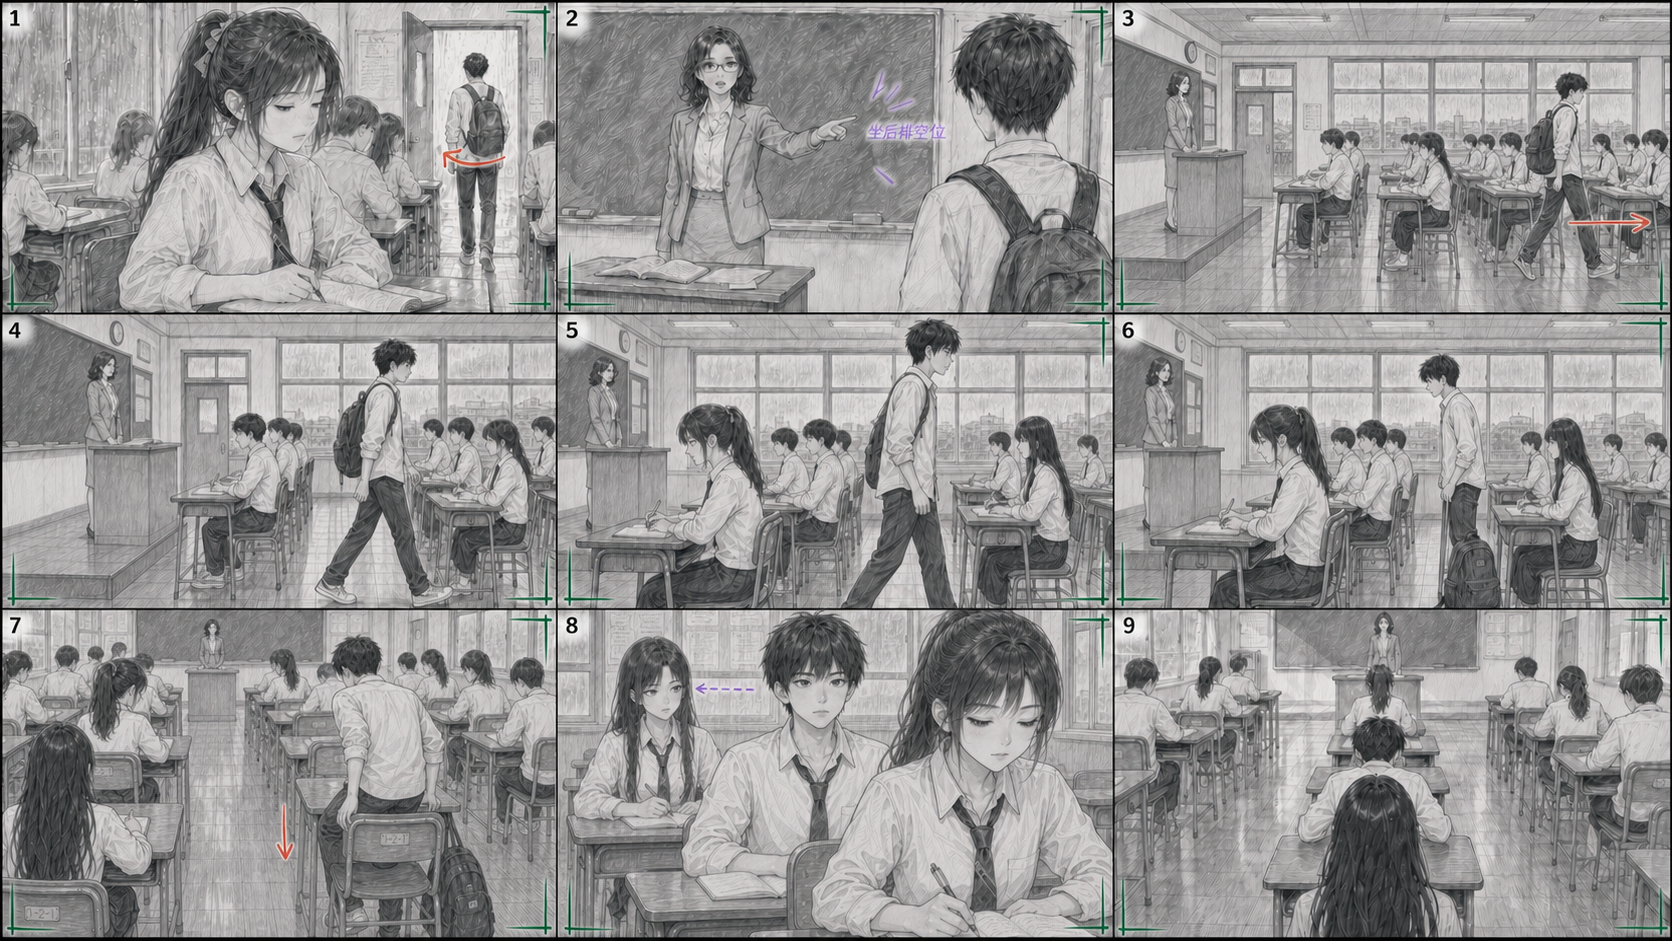
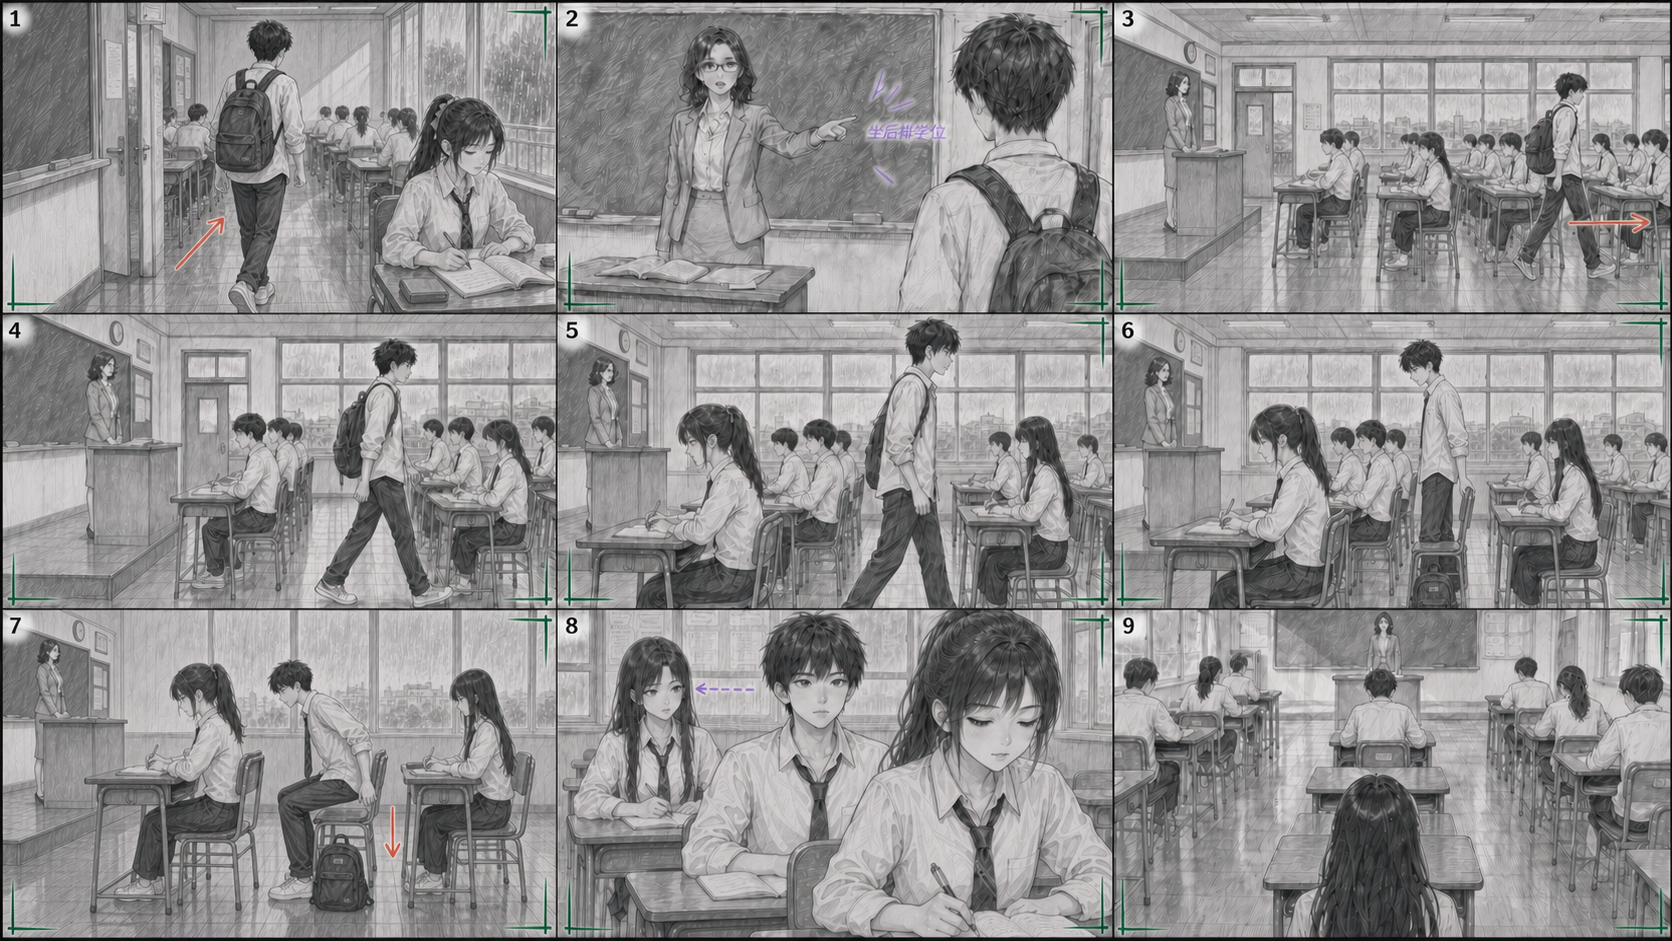
feat: 完善片段二分镜与视频提示词

diff --git a/05-workflow/output/ep01_v2/视频提示词_片段02.md b/05-workflow/output/ep01_v2/视频提示词_片段02.md
@@ -1,0 +1,26 @@
+# 片段02视频提示词
+
+使用紧凑节奏、快速剪辑、匹配剪辑和连续动作转场。
+
+@图片1 作为林明  
+@图片2 作为林晓  
+@图片3 作为安娜  
+@图片4 作为王老师  
+@图片5 作为雨天高三教室
+
+【场景状态】阴雨天的高三教室，窗玻璃布满连续雨痕，冷蓝灰天光从靠窗侧漫入，地面有轻微湿润反光。黑板、讲台与前门固定在教室前方，后排固定在相反方向；王老师始终站在讲台上。所有已坐下的学生身体、课桌和椅子都正对黑板。固定座位从前向后依次为林晓、林明、安娜；林明的空位在林晓正后方、安娜正前方。
+
+【风格基准】高精度日系动画电影质感，校园玄幻少年漫的现实铺垫段落；细腻赛璐璐人物、手绘动画背景、通透空气透视、冷蓝灰雨光、玻璃雨痕与克制高光，人物比例和校服造型全程稳定。
+
+【SHOT动作脚本】
+SHOT 01｜[中远景][教室窗侧纯侧面固定后轻微向右摇移]+[画面左侧为黑板和讲台，王老师站在讲台上面向全班并伸手指向教室后方；林明位于前侧过道，背对左侧黑板，沿过道从画面左侧向右侧后排起步；坐着的学生全部面向左侧黑板，林明与学生朝向相反；镜头随他的第一步向右摇移并建立后排路线] [VFX：无] [王老师：“坐后排空位。”]
+SHOT 02｜[中景][窗侧平行向右跟移]+[林明背着书包继续从前向后经过林晓课桌旁，步伐方向始终远离左侧黑板；湿鞋在地面留下连续浅湿脚印，书包肩带与衣摆随步伐轻晃；林晓坐在靠窗前排，肩膀、课桌与脸部朝向左侧黑板，低头握笔持续写字，不回头、不看林明；画面右侧深处可见安娜坐在更后一排并保持面向黑板] [VFX：无] [无]
+SHOT 03｜[中景][窗侧固定关系机位]+[从画面左到右依次为正在写字的林晓、林明的空桌椅、安娜；林明准确停在中间空椅的过道侧，把书包放到该课桌旁地面，书包触地后轻微回弹并停稳；他一手握住椅背向后拉开，椅脚摩擦地面，随后屈膝把身体落入椅面并将椅子拉回桌前；最终林明坐在林晓正后方、安娜正前方，三张课桌全部朝向左侧黑板] [VFX：无] [无]
+SHOT 04｜[中近景][黑板与讲台一侧正对三人，浅景深缓慢移焦]+[镜头从教室前方正对三排座位，三人的脸同时保持清晰可辨：林晓位于前排画面右前景，身体朝向黑板，低头握笔让笔尖持续划过笔记本；林明位于第二排中央，已经坐稳，神情平静地看向前方黑板；安娜位于第三排画面左后方，身体仍朝向黑板，只把眼神克制地移向前方林明，暗中观察他的侧后方，不与林明对视；焦点从林晓笔尖平滑移到林明，再落到安娜的观察视线] [VFX：无] [无]
+SHOT 05｜[中远景][教室最后方正中略高机位缓慢后拉]+[镜头沿纵向座位轴朝前方黑板与讲台拍摄，近景是安娜深蓝长发背影，中景是林明背影，更前方是林晓高马尾背影，王老师正面站在最远处讲台上；全班所有学生重新稳定面向黑板，林晓继续写字，林明坐直并把双手放到课桌上，安娜收回侧向视线后安静看向前方；镜头轻微后拉并停在安娜—林明—林晓—王老师的完整纵深关系上] [VFX：无] [无]
+
+【声效参考】环境音：持续雨声、雨滴敲击玻璃、安静教室底噪、轻微翻书声；动作音：湿鞋脚步声、书包落地闷响、椅脚摩擦声、笔尖划纸声。无BGM。
+
+【画面质感】16:9，2K级高清，高精度日漫电影光影，冷蓝灰雨天环境光、真实玻璃雨痕、湿地反射、自然衣料与书包惯性反馈；主体始终清晰，镜头运动稳定。
+
+【输出限制】总时长15秒；无字幕、无BGM、无故事板边框、无宫格编号、无箭头、无镜头说明、无水印。王老师台词必须逐字准确且只出现一次。林明必须背对黑板向后排移动，不能朝黑板行走；最终座位必须是林晓在前、林明居中、安娜在后，所有坐着的学生正对黑板，王老师始终站在讲台。林晓全程淡定写字，不回头、不哭泣；安娜只用眼神暗中观察林明，不转动座椅、不拿武器、不显露刀刃。不得增加怪兽、破窗、红眼、超能力、红绳特写或其他剧情外人物、动作、特效与道具。
